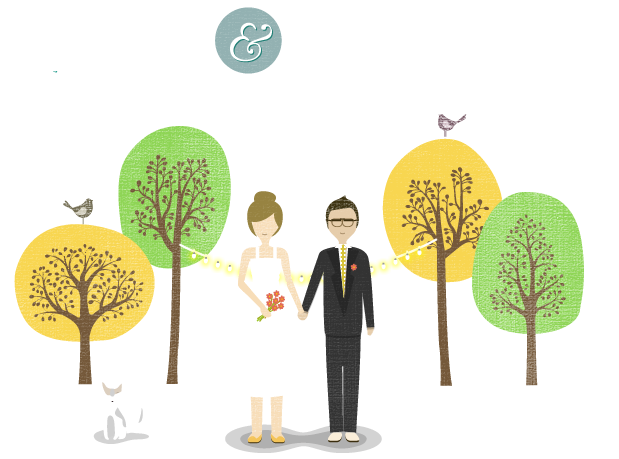
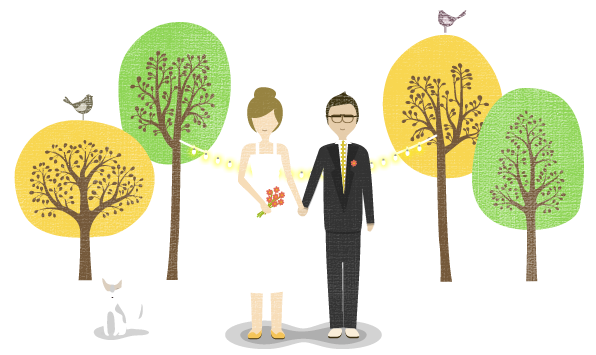
image fixins, add procfile

diff --git a/app/assets/stylesheets/application.css.scss b/app/assets/stylesheets/application.css.scss
@@ -55,9 +55,16 @@ h1 {
   margin: 10px;
 
 }
-h1 #main-title{
+.main-title{
   position:relative;
-  right:100px;
+  left:40px;
+  top: -20px;
+
+}
+
+.ampersand{
+  margin: 40px;
+  background: image-url("ampersand.png");
 }
 
 
